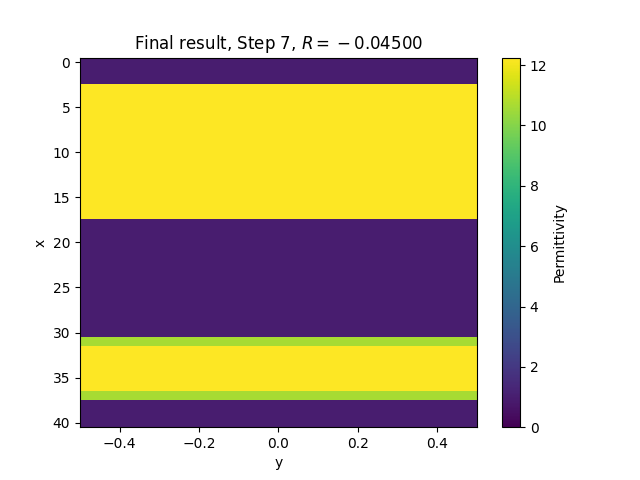
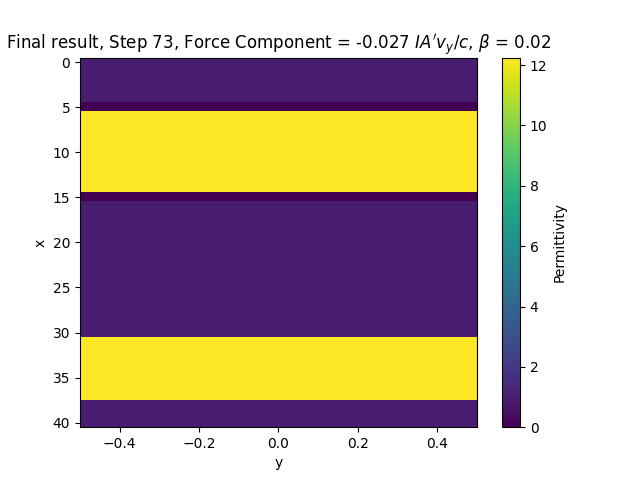
Some work

diff --git a/grcwa/optimisation/non_nlopt/boundary_permittivity_for_force.py b/grcwa/optimisation/non_nlopt/boundary_permittivity_for_force.py
@@ -47,6 +47,7 @@ w2 = 0.15*d
 
 h = 0.5  # thickness of resonator layer
 t = 0.5  # also equal to thickness of substrate layer
+v_width = 2
 
 E_vacuum = 1.
 E_Si = 3.5**2    # https://refractiveindex.info/ with k = n^2 (dielectric constant, refractive index)
@@ -158,10 +159,10 @@ def En1_func(theta, cell_geometry):
     ######### setting up RCWA
     obj = grcwa.obj(nG,L1,L2,freqcmp,theta*np.pi/180,phi*np.pi/180,verbose=0)
     # input layer information
-    obj.Add_LayerUniform(0,E_vacuum)     # Layer 0
+    obj.Add_LayerUniform(v_width,E_vacuum)     # Layer 0
     obj.Add_LayerGrid(h,Nx,Ny)           # Layer 1
     obj.Add_LayerUniform(t,E_SiO2)       # Layer 2
-    obj.Add_LayerUniform(0,E_vacuum)     # Layer 3
+    obj.Add_LayerUniform(v_width,E_vacuum)     # Layer 3
     obj.Init_Setup()
 
 
@@ -183,7 +184,7 @@ def En1_func(theta, cell_geometry):
     return en1
     
 
-def cost_function(vars,Qabs,v):
+def cost_function(vars,Qabs,beta):
     # Cell geometry
     cell_geometry = get_cell_geometry(vars,Nx,Ny,d,dy,x1,x2)
     '''
@@ -237,21 +238,21 @@ def cost_function(vars,Qabs,v):
     
 
     
-    pEn1_pTheta = (En1_fun(0.005) - En1_fun(-0.005)) / 0.01
+    pEn1_pTheta = (En1_fun(0.0005) - En1_fun(-0.0005)) / 0.001
 
     # Relativistic terms
     c = 1
-    beta = v/c
+    v = beta*c
     gamma = 1/np.sqrt(1-beta**2)
-    D1 = beta*gamma + gamma - 1
+    D1 = np.sqrt((1-beta)/(1+beta))
 
-    return (1/v)*(D1**2)*( 2*(wavelength/d)*pEn1_pTheta*(1/D1 - 1) - (gamma-1)*(2*e0 + (e1 + en1)*(1 + np.sqrt( 1 - (wavelength/d)**2 ))) )
+    return -(1/v)*(D1**2)*( 2*(wavelength/d)*pEn1_pTheta*(1/D1 - 1) - (gamma-1)*(2*e0 + (e1 + en1)*(1 + np.sqrt( 1 - (wavelength/d)**2 ))) )
 
 
 Qabs = np.inf
-v = 0.2*c
+beta = 0.02
 
-cost_fun = lambda vars: cost_function(vars,Qabs,v)
+cost_fun = lambda vars: cost_function(vars,Qabs,beta)
 grad_fun = grad(cost_fun)
 
 def fun_grad(vars):
@@ -323,8 +324,8 @@ while index <= max_iterations:
 
     # Printing parameters to command line
     if index == 0:
-        print("{:<8} {:<8} {:<8} {:<8}".format("Step", "R", 'eps1', 'eps2'))
-        print("{:<8} {:<8.3f} {:<8.3f} {:<8.3f}".format(index, -1*cost_val, vars[0],vars[1]))
+        print("{:<8} {:<8} {:<8} {:<8} {:<8} {:<8}".format("Step", "R", 'eps1', 'eps2', 'w1', 'w2'))
+        print("{:<8} {:<8.3f} {:<8.3f} {:<8.3f} {:<8.3f} {:<8.3f}".format(index, -1*cost_val, vars[0],vars[1],w1,w2))
         
         global anim1
         anim1 = ax1.imshow(cell_geometry, interpolation='nearest', vmin=0, vmax=E_Si, aspect='auto')
@@ -332,13 +333,13 @@ while index <= max_iterations:
         cbar.set_label("Permittivity")
         plt.xlabel("y")
         plt.ylabel("x")
-        plt.title(r"Step {}, $R = {:.5f}$".format(index, round(-1*cost_val,decimal_precision)))
+        plt.title(r"Step {}, Force Component = {} $I A' v_y / c$, $\beta$ = {}".format(index, round(-1*cost_val,decimal_precision),beta))
         plt.savefig('grcwa/optimisation/non_nlopt/figs/boundary_permittivity_for_force_initial')
     else:
-        print("{:<8} {:<8.3f} {:<8.3f} {:<8.3f}".format(index, -1*cost_val, vars[0],vars[1]))
+        print("{:<8} {:<8.3f} {:<8.3f} {:<8.3f} {:<8.3f} {:<8.3f}".format(index, -1*cost_val, vars[0],vars[1],w1,w2))
 
         anim1.set_data(cell_geometry)
-        plt.title(r"Step {}, $R = {:.5f}$".format(index, round(-1*cost_val,decimal_precision)))
+        plt.title(r"Step {}, Force Component = {} $I A' v_y / c$, $\beta$ = {}".format(index, round(-1*cost_val,decimal_precision),beta))
         fig1.canvas.flush_events()
 
 
@@ -380,5 +381,5 @@ if index == max_iterations + 1:
 plt.imshow(get_cell_geometry(vars,Nx,Ny,d,dy,x1,x2), interpolation='nearest', vmin=0, vmax=E_Si, aspect='auto')
 plt.xlabel("y")
 plt.ylabel("x")
-plt.title(r"Final result, Step {}, $R = {:.5f}$".format(index, round(-1*cost_val,decimal_precision)))
+plt.title(r"Final result, Step {}, Force Component = {} $I A' v_y / c$, $\beta$ = {}".format(index, round(-1*cost_val,decimal_precision),beta))
 plt.savefig('grcwa/optimisation/non_nlopt/figs/boundary_permittivity_for_force_final')

diff --git a/grcwa/optimisation/wk10attempt/core.py b/grcwa/optimisation/wk10attempt/core.py
@@ -102,7 +102,9 @@ def linear_boundary_geometry(Nx,d,x1,x2,w1,w2):
     return cell_geometry, eps1, eps2
 
 
-def linear_permittivity_geometry(Nx,d,x1,x2,w1,w2,eps1,eps2):
+def linear_permittivity_geometry(Nx,d,x1,x2,w1,w2,vars):
+    eps1 = vars[0]
+    eps2 = vars[1]
     '''
     This function defines a 2D two-element unit cell with the widths and positions of the elements given, but the boundary
     permittivity of the unit cell specified externally.
@@ -124,22 +126,9 @@ def linear_permittivity_geometry(Nx,d,x1,x2,w1,w2,eps1,eps2):
         eps2: the permittivity at the boundary of element 2
     '''
 
-    if w1/(2*d/(Nx-1)) - int(w1/(2*d/(Nx-1))) > 0:
-        raise Exception("w1 must be an even integer multiple of the slice width d/(Nx-1).")
-        # ... otherwise I would need to make the code needlessly complicated.
-    if w2/(2*d/(Nx-1)) - int(w2/(2*d/(Nx-1))) > 0:
-        raise Exception("w2 must be an even integer multiple of the slice width d/(Nx-1).")
-        # ... otherwise I would need to make the code needlessly complicated.
     if x1 > x2:
         raise Exception("x1 should be less than x2, otherwise eps1 will correspond to element 2.")
 
-
-    ### Finding actual_w1 and actual_w2
-    prop_w1 = 1 - (eps1 - E_vacuum)/(E_Si - E_vacuum)
-    prop_w2 = 1 - (eps2 - E_vacuum)/(E_Si - E_vacuum)
-    
-    actual_w1 = w1 - (2*d/(Nx-1))*prop_w1
-    actual_w2 = w2 - (2*d/(Nx-1))*prop_w2
     
     ### Generating basic unit cell
     # Defining coordinate system
@@ -178,9 +167,7 @@ def linear_permittivity_geometry(Nx,d,x1,x2,w1,w2,eps1,eps2):
     
 
     # cell_geometry is a 1D array whose values correspond to the permittivity of each spatial slice in the unit cell.
-    # actual_w1 and actual_w2 are the proper values of w1 and w2 by using a linear model which equates a partially filled
-    # slice in the unit cell with a permittivity in the range [E_vacuum,E_Si].
-    return cell_geometry, actual_w1, actual_w2
+    return cell_geometry
     
     
 def grcwa_reflectance_transmittance(nG,cell_geometry,Nx,d,theta,freq):
@@ -461,4 +448,4 @@ def grcwa_transverse_force(nG,cell_geometry,Nx,d,theta,freq,beta):
     D1 = np.sqrt((1-beta)/(1+beta))
 
     ## Transverse force
-    return -(1/v)*(D1**2)*( 2*(wavelength/d)*pEn1_pTheta*(1/D1 - 1) - (gamma-1)*(2*e[0] + 2*e[1]*(1 + np.sqrt( 1 - (wavelength/d)**2 ))) )
+    return -1*(1/v)*(D1**2)*( 2*(wavelength/d)*pEn1_pTheta*(1/D1 - 1) - (gamma-1)*(2*e[0] + 2*e[1]*(1 + np.sqrt( 1 - (wavelength/d)**2 ))) )

diff --git a/grcwa/optimisation/wk10attempt/tidy.py b/grcwa/optimisation/wk10attempt/tidy.py
@@ -1,4 +1,5 @@
 import core
+
 # Truncation order
 nG = 30
 # Resolution 
@@ -31,7 +32,7 @@ w2 = 0.15*d
 
 
 ### Define cell geometry using permittivity at boundaries
-cell_geometry, actual_w1, actual_w2 = core.linear_permittivity_geometry(Nx,d,x1,x2,w1,w2,5,5)
+cell_geometry = core.linear_permittivity_geometry(Nx,d,x1,x2,w1,w2,[5,5])
 
 
 ### Reflectance and transmittance
@@ -53,5 +54,9 @@ print("Efficiencies:", efficiencies)
 
 
 ### Transverse force
-force = core.grcwa_transverse_force(nG,cell_geometry,Nx,d,theta,freq,beta=0.2)
+Nx = 41
+nG = 30
+beta = 0.02
+cell_geometry = core.linear_permittivity_geometry(Nx,d,x1,x2,w1,w2,[8.932,8.154])
+force = core.grcwa_transverse_force(nG,cell_geometry,Nx,d,theta,freq,beta)
 print("Transverse force: {} I A' v_y/c".format(force))

diff --git a/grcwa/optimisation/nlopt_width_for_force.py b/grcwa/optimisation/nlopt_width_for_force.py
@@ -217,7 +217,7 @@ def cost_function(vars,Qabs,v):
     c = 1
     beta = v/c
     gamma = 1/np.sqrt(1-beta**2)
-    D1 = beta*gamma + gamma - 1
+    D1 = np.sqrt((1-beta)/(1+beta))
 
     return -(1/v)*(D1**2)*( 2*(wavelength/d)*pEn1_pTheta*(1/D1 - 1) - (gamma-1)*(2*e0 + (e1 + en1)*(1 + np.sqrt( 1 - (wavelength/d)**2 ))) )
 
